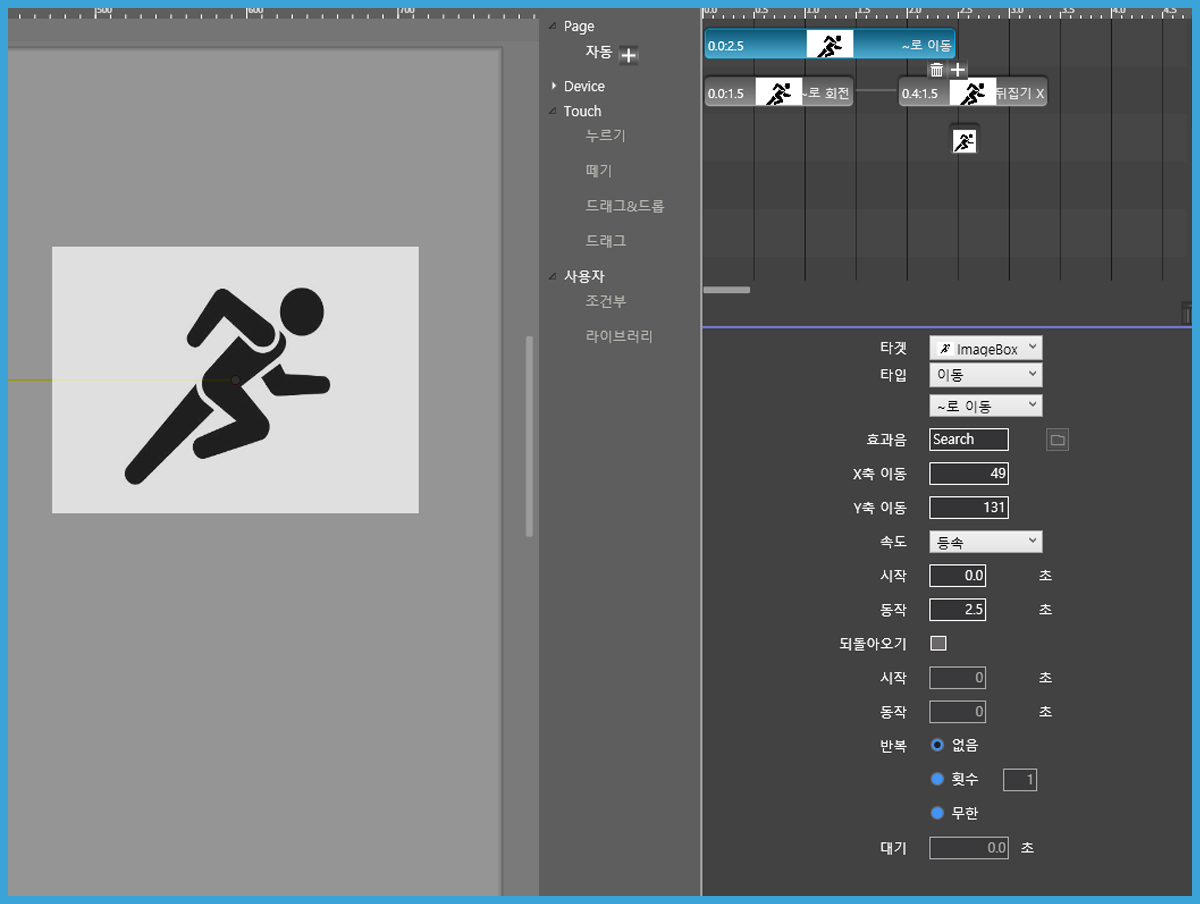
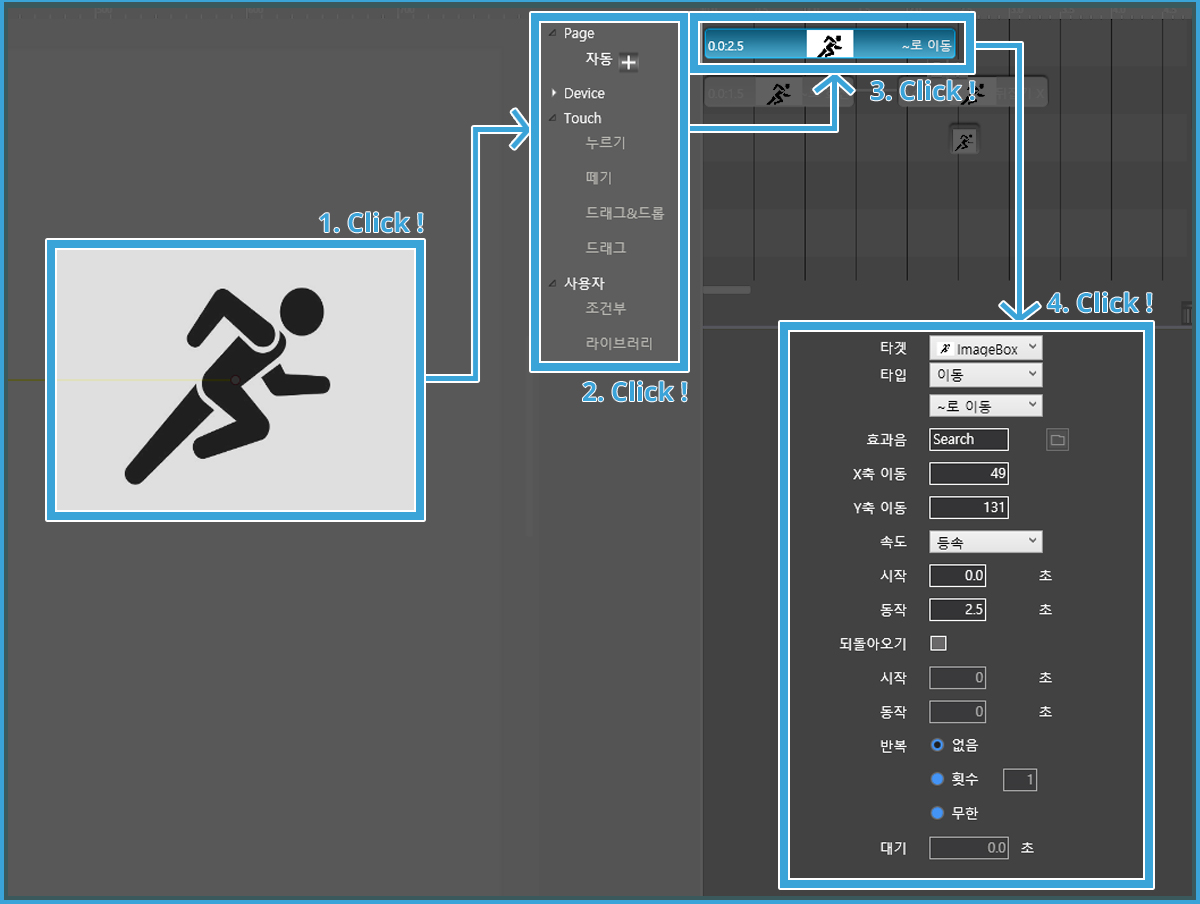
190322 문희 수정

diff --git a/5timeline.md b/5timeline.md
@@ -1,23 +1,26 @@
 # 5. 페이지 빌더 기본 기능 살펴보기 - 액션 패널
 
-타임라인은 페이지빌더의 핵심 기능 중에 하나로서 시간의 흐름에 따른 액션을 지정할 수 있습니다. 객체에 적용할 수 있는 다양한 액션들과 더불
-어 자동실행, 누르기, 떼기와 같은 다양한 액션 트리거 기능을 제공합니다.
+액션 패널은 페이지빌더의 핵심 기능 중에 하나로서 시간의 흐름에 따른 액션을 지정할 수 있습니다. 객체에 적용할 수 있는 다양한 애니메이션 효과와 자동실행, 누르기, 떼기와 같은 다양한 액션 기능을 제공합니다. 
 
-<br>
+
+----------------------
+
+### 5-1. 액션 패널 기본 정보
+액션 패널은 크게 3가지 영역으로 나뉩니다.
 
 <img src='./figure/5-1.jpg' width="500" >
 
 
- 타임라인 패널 영역은 다음 4가지 영역으로 나뉩니다.
+ 
 
 ### ① 액션 컨트롤러
 
-Page, Device, Touch, 사용자에 대한 특정한 동작에 필요한 액션을 표시합니다.
+Page, Device, Touch, 사용자마다 특정한 동작에 필요한 액션을 표시합니다.
 
 
-> 액션 트리거의 타입
+> 액션 모드별 설명
 
-|모드|옵션|
+|모드|설명|
 |----------|-----------------|
 |Page|자동: 페이지 실행시 자동으로 실행됩니다.|
 |Device|흔들기: 디바이스를 흔들면 액션이 실행됩니다. 
@@ -30,31 +33,33 @@ Page, Device, Touch, 사용자에 대한 특정한 동작에 필요한 액션을
 
 ### ② 타임라인 상태표시
 
-타임라인 뷰의 액션을 시간의 흐름에 따라 표시합니다. 
+타임라인에서는 액션을 시간의 흐름에 따라 표시합니다. 슬라인더를 사용하여 타임라인에 보여지는 시간 축의 너비를 조정합니다. 
 
-(1) 슬라이더를 사용하여 타임라인에 보여지는 시간 축의 너비를 조정합니다.
+### ③ 액션 속성 창
 
-### ③ 액션 인스펙터
+객체에 적용된 액션에 따라 세부 속성 값이 나타납니다. 속성 값을 변경하여 액션을 다양하게 나타낼 수 있습니다. 
 
-액션의 세부 속성을 나타냅니다. (글 수정) 
+<br>
 
+### 5-2. 액션 지정하기
 
-
-
-### 액션 인스펙터 알아보기
-
-액션 인스펙터는 객체(또는 그룹화된 객체)에게 자동으로 또는 사용자의 반응에 따라 움직임을 갖는 객체를 만드는  도구입니다.
+액션을 지정하려면 먼저 액션을 나타낼 객체를 선택하고 액션 타입을 선택하시면 됩니다. 액션 효과는 객체(또는 그룹화된 객체)에게 자동으로 또는 사용자의 반응에 따라 움직임을 줄 수 있습니다. 
 
 <img src='./figure/5-2.jpg' >
 
 
-액션을 지정하려면 먼저 액션의 타깃과 액션 타입을 정해야 합니다. 
+<br>
 
-액션 타입은 다음과 같습니다.
+### 5-3. 액션 타입 살펴보기
+
+액션 효과마다 다양한 액션 타입이 있습니다. 
 
 <img src='./figure/5-3.jpg' width="400">   
 
-   
+<br>
+   <br>
+
+
  
   - '모든 액션 멈춤': 모든 액션의 동작을 멈춥니다. 효과음(mp3 파일)과 시작 지연 시간을 지정할 수 있습니다.
   
@@ -73,53 +78,56 @@ Page, Device, Touch, 사용자에 대한 특정한 동작에 필요한 액션을
   - 동작 시간: 액션의 동작 시간을 나타냅니다.
   - 되돌아오기: 액션을 거꾸로 동작할지 여부를 선택합니다
   - 반복 횟수: 동작의 반복 횟수를 지정합니다.
+  
+  <br>
 - '이동': 객체를 이동시킵니다.
+
   
    <img src='./figure/5-7.jpg'>
 
-  - ~로 이동/~만큼 이동/곡선 이동: 이동 방법을 선택합니다.
-  - x축 이동, y축 이동 : 지정한만큼 x축과 y축으로 이동합니다.
-
+  - '~로 이동/~만큼 이동/곡선 이동': 이동 방법을 선택합니다.
+  - 'x축 이동, y축 이동': 입력한만큼 x축과 y축으로 이동합니다.
+  <br>
 - '확대이동': 객체의 크기를 조절하고 이동합니다.
 
 
    <img src='./figure/5-8.jpg'>
 
-  - 좌표 X, Y : 객체가 이동할 X,Y 좌표를 나타냅니다.
-  - 크기 W, H : 확대한 크기 W, H를 나타냅니다.
-
+  - 좌표 X, Y: 객체가 이동할 X,Y 좌표를 나타냅니다.
+  - 크기 W, H: 확대한 크기 W, H를 나타냅니다.
+  <br>
 - '회전': 객체를 회전시킵니다.
 
 
    <img src='./figure/5-9.jpg'>
 
-  - ~로 회전, ~만큼 회전 : 회전방법을 선택합니다.
-  - 기준점 X, Y : 회전의 기준점이 되는 좌표를 정합니다.
-  - 회전 수 : 회전 횟수를 지정합니다.
+  - ~로 회전, ~만큼 회전: 회전방법을 선택합니다.
+  - 기준점 X, Y: 회전의 기준점이 되는 좌표를 정합니다.
+  - 회전 수: 회전 횟수를 지정합니다.
   - 시계반대방향: 시계 반대방향으로 회전합니다
-
+  <br>
 - '뒤집기': 객체를 가로,세로 방향으로 뒤집습니다.
 
    <img src='./figure/5-10.jpg'>
 
-  - 가로 뒤집기/세로 뒤집기 : 뒤집기의 방향을 정합니다.
-  - 효과음 : 효과음을 넣을 수 있습니다.
-
-- 애니메이션 : 객체에 이미지를 넣어 연속된 동작으로 보여줍니다.
+  - 가로 뒤집기/세로 뒤집기: 뒤집기의 방향을 정합니다.
+  - 효과음: 효과음을 넣을 수 있습니다.
+  <br>
+- '애니메이션' : 객체에 이미지를 넣어 연속된 동작으로 보여줍니다.
   
    <img src='./figure/5-11.jpg'>
 
   - 이미지: 애니메이션 효과를 적용할 이미지들을 불러옵니다.
   - 되돌아오기: 액션을 거꾸로 동작할지 여부를 선택합니다
   - 초기값 복원: 애니메이션이 끝나면 초기에 넣었던 이미지로 돌아갑니다.
-
-- 페이지 이동 : 페이지를 지정하여 이동합니다.
+  <br>
+- '페이지 이동': 페이지를 지정하여 이동합니다.
   
    <img src='./figure/5-12.jpg'>
   
-  - 다음 페이지 : 다음 페이지로 이동합니다.
-  - 이전 페이지 : 이전 페이지로 이동합니다.
-  - 보던 페이지 : 보던 페이지로 이동합니다.
-  - 홈 : 홈으로 이동합니다.
-  - 입력 : 입력한 페이지로 이동합니다.
+  - 다음 페이지: 다음 페이지로 이동합니다.
+  - 이전 페이지: 이전 페이지로 이동합니다.
+  - 보던 페이지: 보던 페이지로 이동합니다.
+  - 홈: 홈으로 이동합니다.
+  - 입력: 입력한 페이지로 이동합니다.
  

diff --git a/4control-panel.md b/4control-panel.md
@@ -1,17 +1,14 @@
 
 # 4. 페이지 빌더 기본 기능 살펴보기 - 컨트롤 패널
 
-컨트롤 패널은 최상단의 탭(홈, 삽입, 보기)과 선택한 객체(도형, 이미지, 동영상 등)에 따라 다른 형태의 리본 메뉴를 보여줍니다. 
-
-
-또한 선택한 객체(도형, 이미지, 동영상 등)에 따라 속성값을 수정할 수 있는 속성 화면?? 메뉴 화면??이 나타납니다.  
+컨트롤 패널은 최상단의 탭(홈, 삽입, 보기)에 따라 다른 형태의 리본 메뉴가 있습니다. 또한 선택한 객체(도형, 이미지, 동영상 등)에 따라 속성값을 수정할 수 있는 서식 메뉴가 나타납니다.   
 
 - [홈 탭] 에서는 객체를 편집하는 도구들을 보여줍니다. 
 - [삽입 탭] 서는 도형, 텍스트 박스, 이미지를 삽입하는 도구들을 보여줍니다. 
 - [보기 탭] 에서는 작업에 도움이 되는 눈금자, 안내선 등을 보여줍니다.
 
 -------------------------
-## 4-1. 홈 탭
+## 4-1. 홈 탭 
 
 컨트롤 패널의 기본 모드는 홈 탭 모드입니다. 홈 탭에서는 객체를 편집하기 위한 다양한 기능들이 있습니다.
 
@@ -19,9 +16,9 @@
 
 ### ① 클립보드
 
-- 오려두기 : 객체를 자르고 붙이는 기능입니다.
-- 복사하기 : 객체를 복사하는 기능입니다.
-- 붙이기 : 복사한 것을 붙이는 기능입니다.
+- 오려두기: 객체를 자르고 붙이는 기능입니다.
+- 복사하기: 객체를 복사하는 기능입니다.
+- 붙이기: 복사한 것을 붙이는 기능입니다.
    
 ### ② 도형 서식
 
@@ -50,8 +47,8 @@
 
 ### ⑤ 그룹
 
-- 그룹 지정 : 여러개의 객체를 선택하여 그룹화합니다.
-- 그룹 해제 : 그룹을 해제합니다
+- 그룹 지정: 여러개의 객체를 선택하여 그룹화합니다.
+- 그룹 해제: 그룹을 해제합니다
 
 ### ⑥ 확대/축소
 
@@ -66,17 +63,15 @@
 
 <img src='./figure/4-5.jpg' width="500" >
 
-- 1번 아이콘 - 유실된 파일을 다른 파일로 대치합니다.
-- 2번 아이콘 - 폴더 전체의 파일들을 같은 이름의 파일로 대치합니다
+- 1번 아이콘: 유실된 파일을 다른 파일로 대치합니다.
+- 2번 아이콘: 폴더 전체의 파일들을 같은 이름의 파일로 대치합니다
 
 ----------------------
-## 4-2 삽입 탭
+## 4-2. 삽입 탭
 
 상단 메뉴에서 삽입탭을 선택하면 리본 메뉴는 삽입탭 모드로 바뀝니다.
 
-<img src='./figure/4-6_깸.jpg' width="600" >
-
-<br>
+<img src='./figure/4-6_깸.jpg' width="700">
 <br>
 
 ### ① 텍스트박스
@@ -91,8 +86,7 @@
 
 <img src='./figure/4-8.jpg' >
 
-텍스트 박스를 클릭하고 작업 창에 드래그를 하면 텍스트 박스가 생성됩니다. 텍스트 박스를 더블 클릭하시면 텍스트 입력이 가능합니다.
-<br>
+텍스트 박스를 클릭하고 작업 창에 드래그를 하면 텍스트 박스가 생성됩니다. 텍스트 박스를 더블 클릭하시면 텍스트 입력이 가능합니다.<br>
 <br>
 
 ### ② 이미지 박스
@@ -113,7 +107,7 @@
 
 <img src='./figure/4-11.jpg' width="1200">
 
-이미비 박스 선택후 이미지 박스 서식 메뉴에서 왼쪽에 있는 파일 아이콘을 선택하면 이미지 열기가 가능합니다. 
+이미지 박스 선택후 이미지 박스 서식 메뉴에서 왼쪽에 있는 파일 아이콘을 선택하면 이미지 열기가 가능합니다. 
 
 <img src='./figure/4-12.jpg' width="1200">
 
@@ -123,7 +117,7 @@
 
 ### 이미지 자르기
 
-이미지 박스 서식 메뉴에서 '크롭'을 선택한 후 이미지 포인터를 드래그하여 이미지 크기를 조정하면 이미지 사이즈가 조절됩니다.
+이미지 박스 서식 메뉴에서 '크롭'을 선택한 후 이미지 포인터를 드래그하여 이미지 크기를 조절하면 이미지 사이즈 변경이 가능합니다.  
 
 <img src='./figure/4-13.jpg' width="1200">
 
@@ -139,8 +133,7 @@
 - 깜빡거림: 첫번째 이미지와 두 번째 이미지가 번갈아 보여줍니다. 속도와 동작 시간을 조절할 수 있습니다.
 - 스크래치1: 첫번째 이미지가 스크래치를 통해 지워지고 두번째 이미지가 나타납니다.
 - 스크래치2: 이미지가 스크래치를 통해 지워집니다.
-- 스크래치3: 스크래치를 통해 선택된 색상이 칠해집니다.
-<br>
+- 스크래치3: 스크래치를 통해 선택된 색상이 칠해집니다.<br>
 <br>
 
 ### ③ 스크롤 박스
@@ -165,7 +158,7 @@
 효과 박스탭 모드에서 객체에 특수 효과를 넣을 수 있습니다.
 
 <img src='./figure/4-17.jpg'>
-<br><br>
+<br>
 <img src='./figure/4-18.jpg' >
 
 '넘김 효과' 체크박스를 선택하면 효과 옵션을 선택할 수 있습니다. 
@@ -173,8 +166,7 @@
 <img src='./figure/4-19.jpg' >
 
 넘김 효과로는 덮기, 나타내기, 밀어내기, 당기기가 있습니다.
-'동작시간'은 페이지를 넘길 때 효과의 지속 시간을 지정할 수 있습니다.
-
+'동작시간'에서 페이지를 넘길 때 효과의 지속 시간을 지정할 수 있습니다.
 <br>
 <br>
 
@@ -201,18 +193,18 @@
 
 <img src='./figure/4-22.jpg'>
 
-옵션을 선택하여 옵션의 속성을 조절할 수 있습니다.
+옵션에서 다양한 효과를 선택 할 수 있습니다. 
 
 <img src='./figure/4-22 뒤.jpg'>
 
 
-- 푸쉬 : 도형을 누르고 있는 동안은 도형이 반투명해집니다
-- 깜박거림 : 도형이 깜빡거리는 동작시간과 속도를 지정합니다.
+- 푸쉬: 도형을 누르고 있는 동안은 도형이 반투명해집니다
+- 깜박거림: 도형이 깜빡거리는 동작시간과 속도를 지정합니다.
 
 -----
-## 4-3 보기 탭
+## 4-3. 보기 탭
 
 컨트롤 패널의 보기 모드는 눈금자 숨기기, 안내선 보기, 박스선에 붙이기, 안내선에 붙이기를 지원합니다. 이러한 기능들은 편집을 좀 더 쉽고 빠르게 하는데 도움을 줍니다.
 
-<img src='./figure/4-23.jpg' width="300">
+<img src='./figure/4-23.jpg'>
 

diff --git a/3basic.md b/3basic.md
@@ -6,7 +6,7 @@ title: Pagebuilder User manual
 
 # 3. 페이지 빌더 작업 영역 살펴보기
 
-## 3-1 작업 영역 및 패널
+## 3-1. 작업 영역 및 패널
 
 페이지빌더는 5개의 주요 작업 영역으로 구성됩니다. 간단한 화면 구성으로 초기 사용자도 쉽게 이용이 가능합니다. 숙련된 사용자는 고급 기능을 사용하여 더 빠른 편집이 가능합니다.
 
@@ -39,9 +39,3 @@ title: Pagebuilder User manual
 <br>
 
 ------------------------------------
-<br>
-
-## 3-2 [파일] 메뉴 설명
-
-
- [comment]: # ( 파일 메뉴 설명 부분을 이어서 넣기 ) 

diff --git a/목차.md b/목차.md
@@ -1,4 +1,4 @@
-# Page Builer 메뉴얼 (사용 안내서) 목차
+# Page Builer 메뉴얼(사용 안내서) 목차
 
 
 ## 1. 페이지 빌더 소개
@@ -18,11 +18,14 @@
 ## 4. 페이지 빌더 기본 기능 살펴보기 - 컨트롤 패널
 
 ### 4-1. 홈탭 
-### 4-2. 삽입탭
+### 4-2. 삽입탭 
 ### 4-3. 보기탭
 
 ## 5. 페이지 빌더 기본 기능 살펴보기 - 액션 패널
 
+### 5-1. 액션 패널 기본 정보
+### 5-2. 액션 지정하기
+### 5-3. 액션 타입 살펴보기
 
 <br>
 <br>
